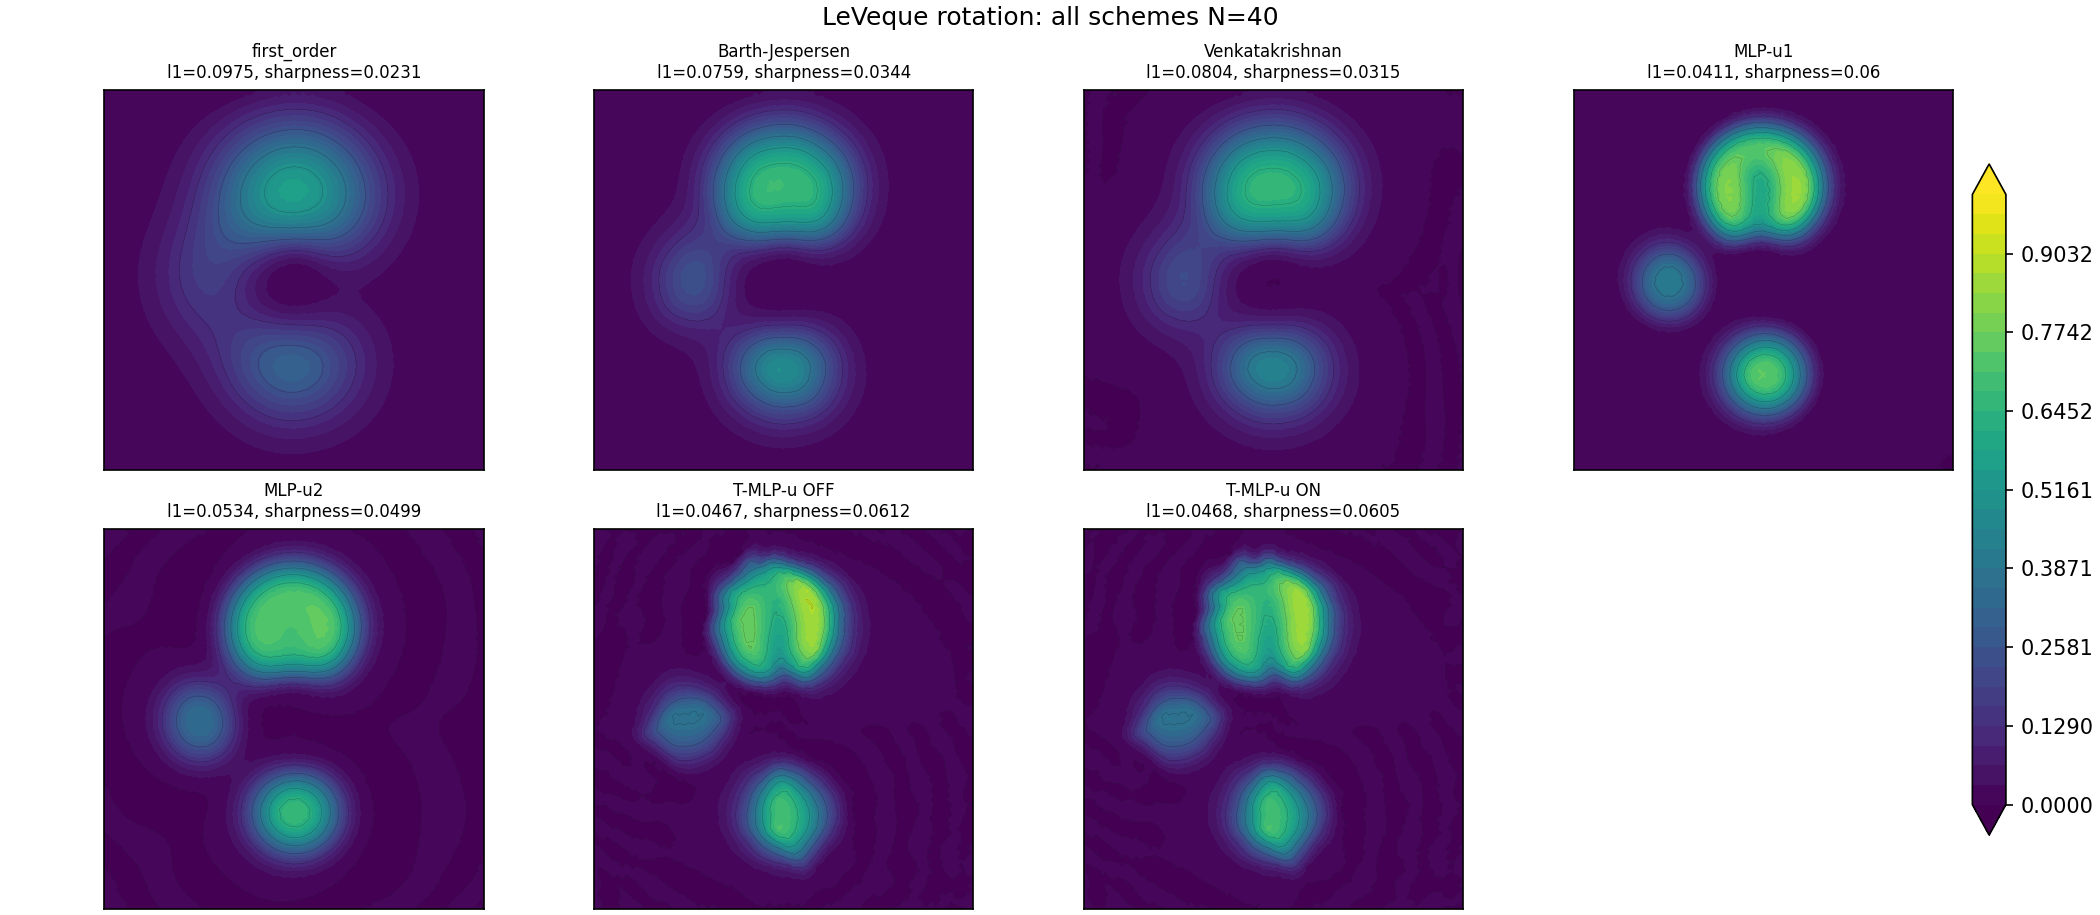
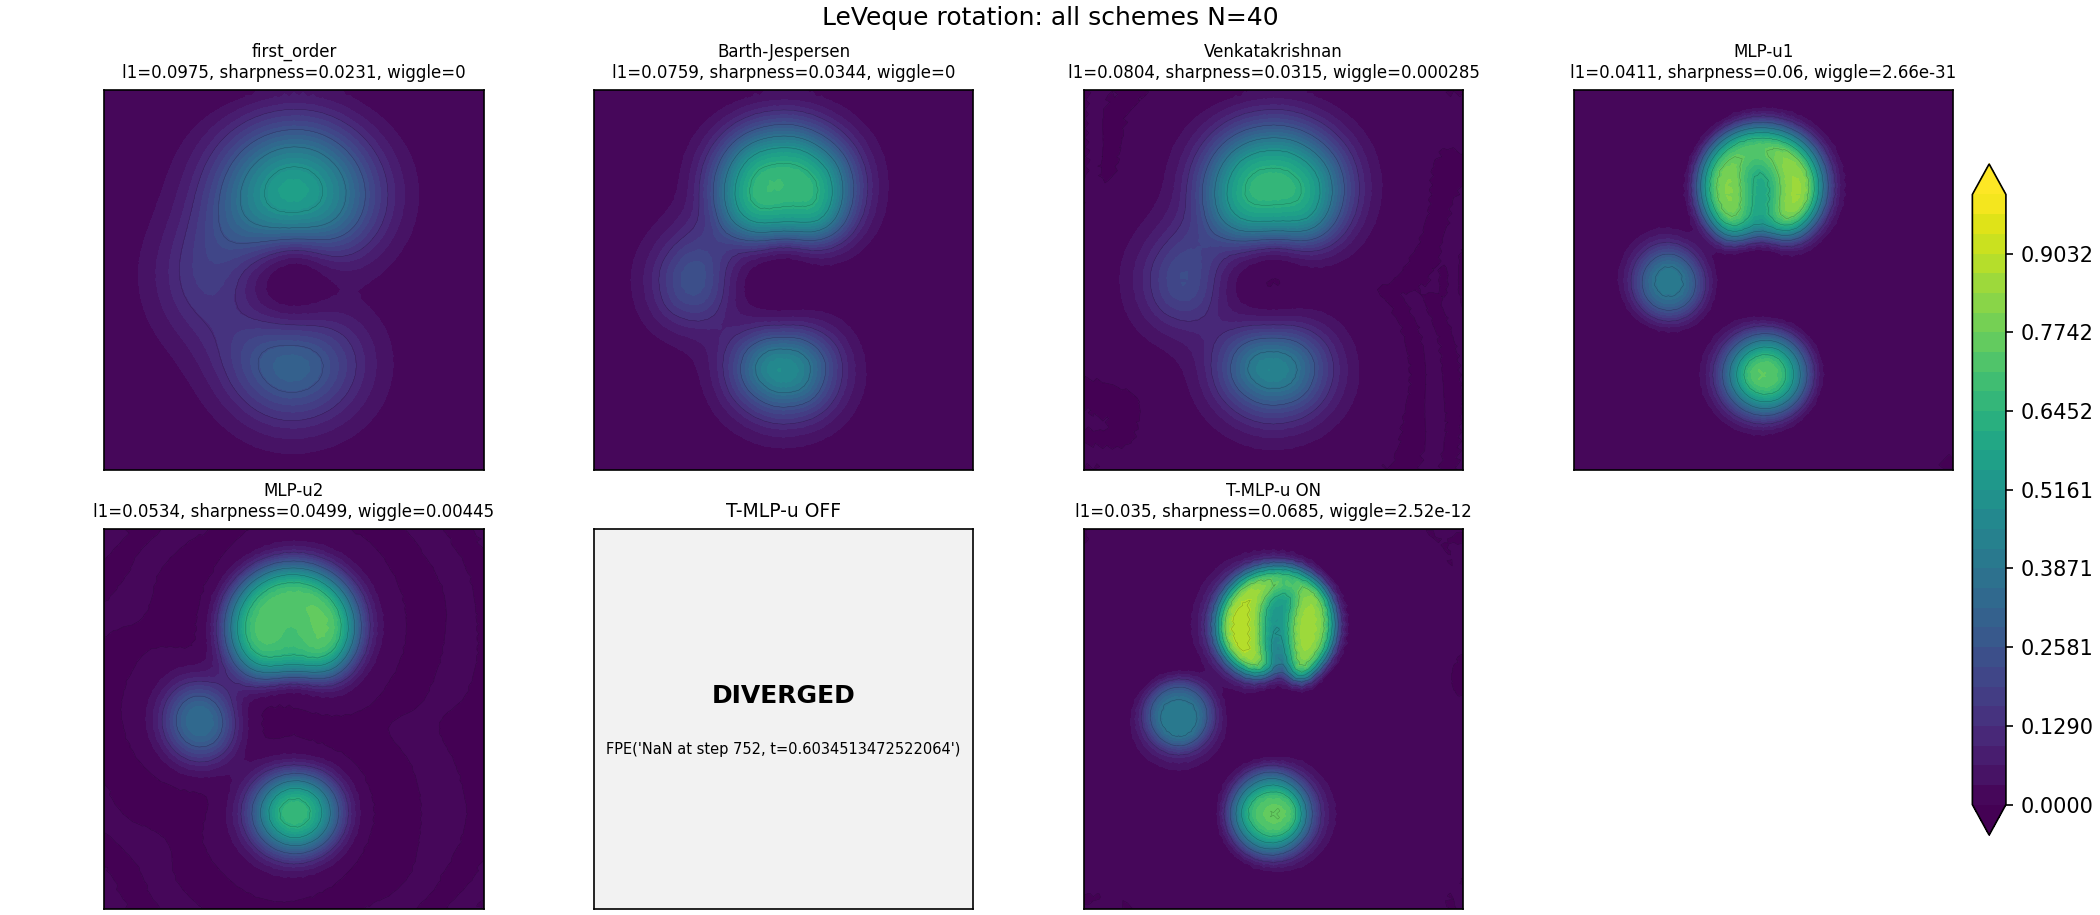
experiment: switch LeVeque evidence to pure downwind T-MLP-u

diff --git a/solver/solve_T-MLP-u/tests/test_2d_tmlpu_paper_benchmarks.py b/solver/solve_T-MLP-u/tests/test_2d_tmlpu_paper_benchmarks.py
@@ -246,19 +246,15 @@ def _quad_mesh(nx, ny, Lx, Ly, *, origin=(0.0, 0.0), keep=None,
 
 
 def _tmlpu_leveque():
-    return TMLPU(tvd='downwind', mlp_bound=True,
-                 extremum_relax=True, tvb_M=448.0,
-                 smoothness_threshold=0.10,
-                 smoothness_threshold2=0.05,
+    return TMLPU(tvd='pure_downwind', mlp_bound=True,
+                 extremum_relax=False, tvb_M=0.0,
                  virtual_uu_gradient=True, stencil='vertex2',
-                 order=3, idw_p=6)
+                 order=3, idw_p=6, vertex_mlp=True)
 
 
 def _tmlpu_off_leveque():
-    return TMLPU(tvd='downwind', mlp_bound=False,
-                 extremum_relax=True, tvb_M=448.0,
-                 smoothness_threshold=0.10,
-                 smoothness_threshold2=0.05,
+    return TMLPU(tvd='pure_downwind', mlp_bound=False,
+                 extremum_relax=False, tvb_M=0.0,
                  virtual_uu_gradient=True, stencil='vertex2',
                  order=3, idw_p=6)
 
@@ -370,24 +366,40 @@ def run_leveque(out, quick):
             sharp = float(np.percentile(np.abs(f[mesh.face_owner[mesh.face_neighbour >= 0]]
                                                 - f[mesh.face_neighbour[mesh.face_neighbour >= 0]]), 95))
             rng = [float(np.min(f)), float(np.max(f))]
-            fields[name] = f
+            wiggle = max(0.0, -rng[0]) + max(0.0, rng[1] - 1.0)
+            row_ok = bool(wiggle <= 0.25 and np.isfinite(l1))
+            if row_ok:
+                fields[name] = f
         else:
             l1 = None
             sharp = 0.0
             rng = [None, None]
-        rows.append(dict(case='leveque', method=name, ok=r['ok'], l1=l1,
+            wiggle = None
+            row_ok = False
+        error = r['error']
+        if r['ok'] and not row_ok:
+            error = f"range blow-up: min={rng[0]:.3g}, max={rng[1]:.3g}"
+        rows.append(dict(case='leveque', method=name, ok=row_ok, l1=l1,
                          sharpness=sharp, range_min=rng[0], range_max=rng[1],
-                         steps=r['steps'], wall=r['wall'], error=r['error']))
+                         wiggle=wiggle, steps=r['steps'], wall=r['wall'],
+                         error=error))
     on = next(r for r in rows if r['method'] == 'T-MLP-u ON')
     off = next(r for r in rows if r['method'] == 'T-MLP-u OFF')
     baselines = [r for r in rows if r['method'] not in ('T-MLP-u ON', 'T-MLP-u OFF') and r['ok']]
     best_l1 = min((r['l1'] for r in baselines), default=float('inf'))
     best_sharp = max((r['sharpness'] for r in baselines), default=0.0)
-    on_range_violation = max(0.0, -on['range_min']) + max(0.0, on['range_max'] - 1.0)
-    off_range_violation = max(0.0, -off['range_min']) + max(0.0, off['range_max'] - 1.0)
+
+    def _range_violation(row):
+        if row['range_min'] is None or row['range_max'] is None:
+            return float('inf')
+        return max(0.0, -row['range_min']) + max(0.0, row['range_max'] - 1.0)
+
+    on_range_violation = _range_violation(on)
+    off_range_violation = _range_violation(off)
     passed = bool(on['ok']
                   and on['sharpness'] >= best_sharp
-                  and on['l1'] <= 1.15 * best_l1
+                  and on['l1'] <= best_l1
+                  and on_range_violation <= 1e-8
                   and on_range_violation <= off_range_violation)
     if 'T-MLP-u ON' in fields:
         _plot_field(mesh, fields['T-MLP-u ON'], out / 'leveque_tmlpu_on.png',
@@ -395,7 +407,7 @@ def run_leveque(out, quick):
     _plot_scheme_contours(
         mesh, fields, rows, out / 'leveque_scheme_contours.png',
         f'LeVeque rotation: all schemes N={N}',
-        vmin=0.0, vmax=1.0, metric_keys=('l1', 'sharpness'))
+        vmin=0.0, vmax=1.0, metric_keys=('l1', 'sharpness', 'wiggle'))
     return passed, rows
 
 
@@ -593,17 +605,17 @@ def main():
     with tsv.open('w') as f:
         f.write('\t'.join(keys) + '\n')
         for row in all_rows:
-            f.write('\t'.join(str(row.get(k, '')) for k in keys) + '\n')
+            f.write('\t'.join(str(row.get(k, '')) for k in keys).rstrip('\t') + '\n')
 
     summary = {
         'comparison_definition': {
             'T-MLP-u OFF': 'SUPERBEE TVD-only reconstruction with mlp_bound=False',
             'T-MLP-u ON': 'T-MLP-u wrapper plus SUPERBEE with mlp_bound=True',
-            'LeVeque T-MLP-u OFF': 'downwind TVD-only reconstruction with mlp_bound=False',
-            'LeVeque T-MLP-u ON': 'T-MLP-u wrapper plus downwind with mlp_bound=True',
+            'LeVeque T-MLP-u OFF': 'pure_downwind reconstruction with mlp_bound=False',
+            'LeVeque T-MLP-u ON': 'T-MLP-u wrapper plus pure_downwind with mlp_bound=True',
             'LeVeque gate': (
                 'T-MLP-u ON must be sharper than every non-TMLPU baseline, '
-                'within 15% of best baseline L1, and no less bounded than downwind OFF'),
+                'lower L1 than every non-TMLPU baseline, and wiggle-free within [0,1]'),
             'leveque_flux': 'upwind with central-averaged face velocity',
             'double_mach_flux': 'hllc_adc',
             'mach3_step_flux': 'hllc_adc',
